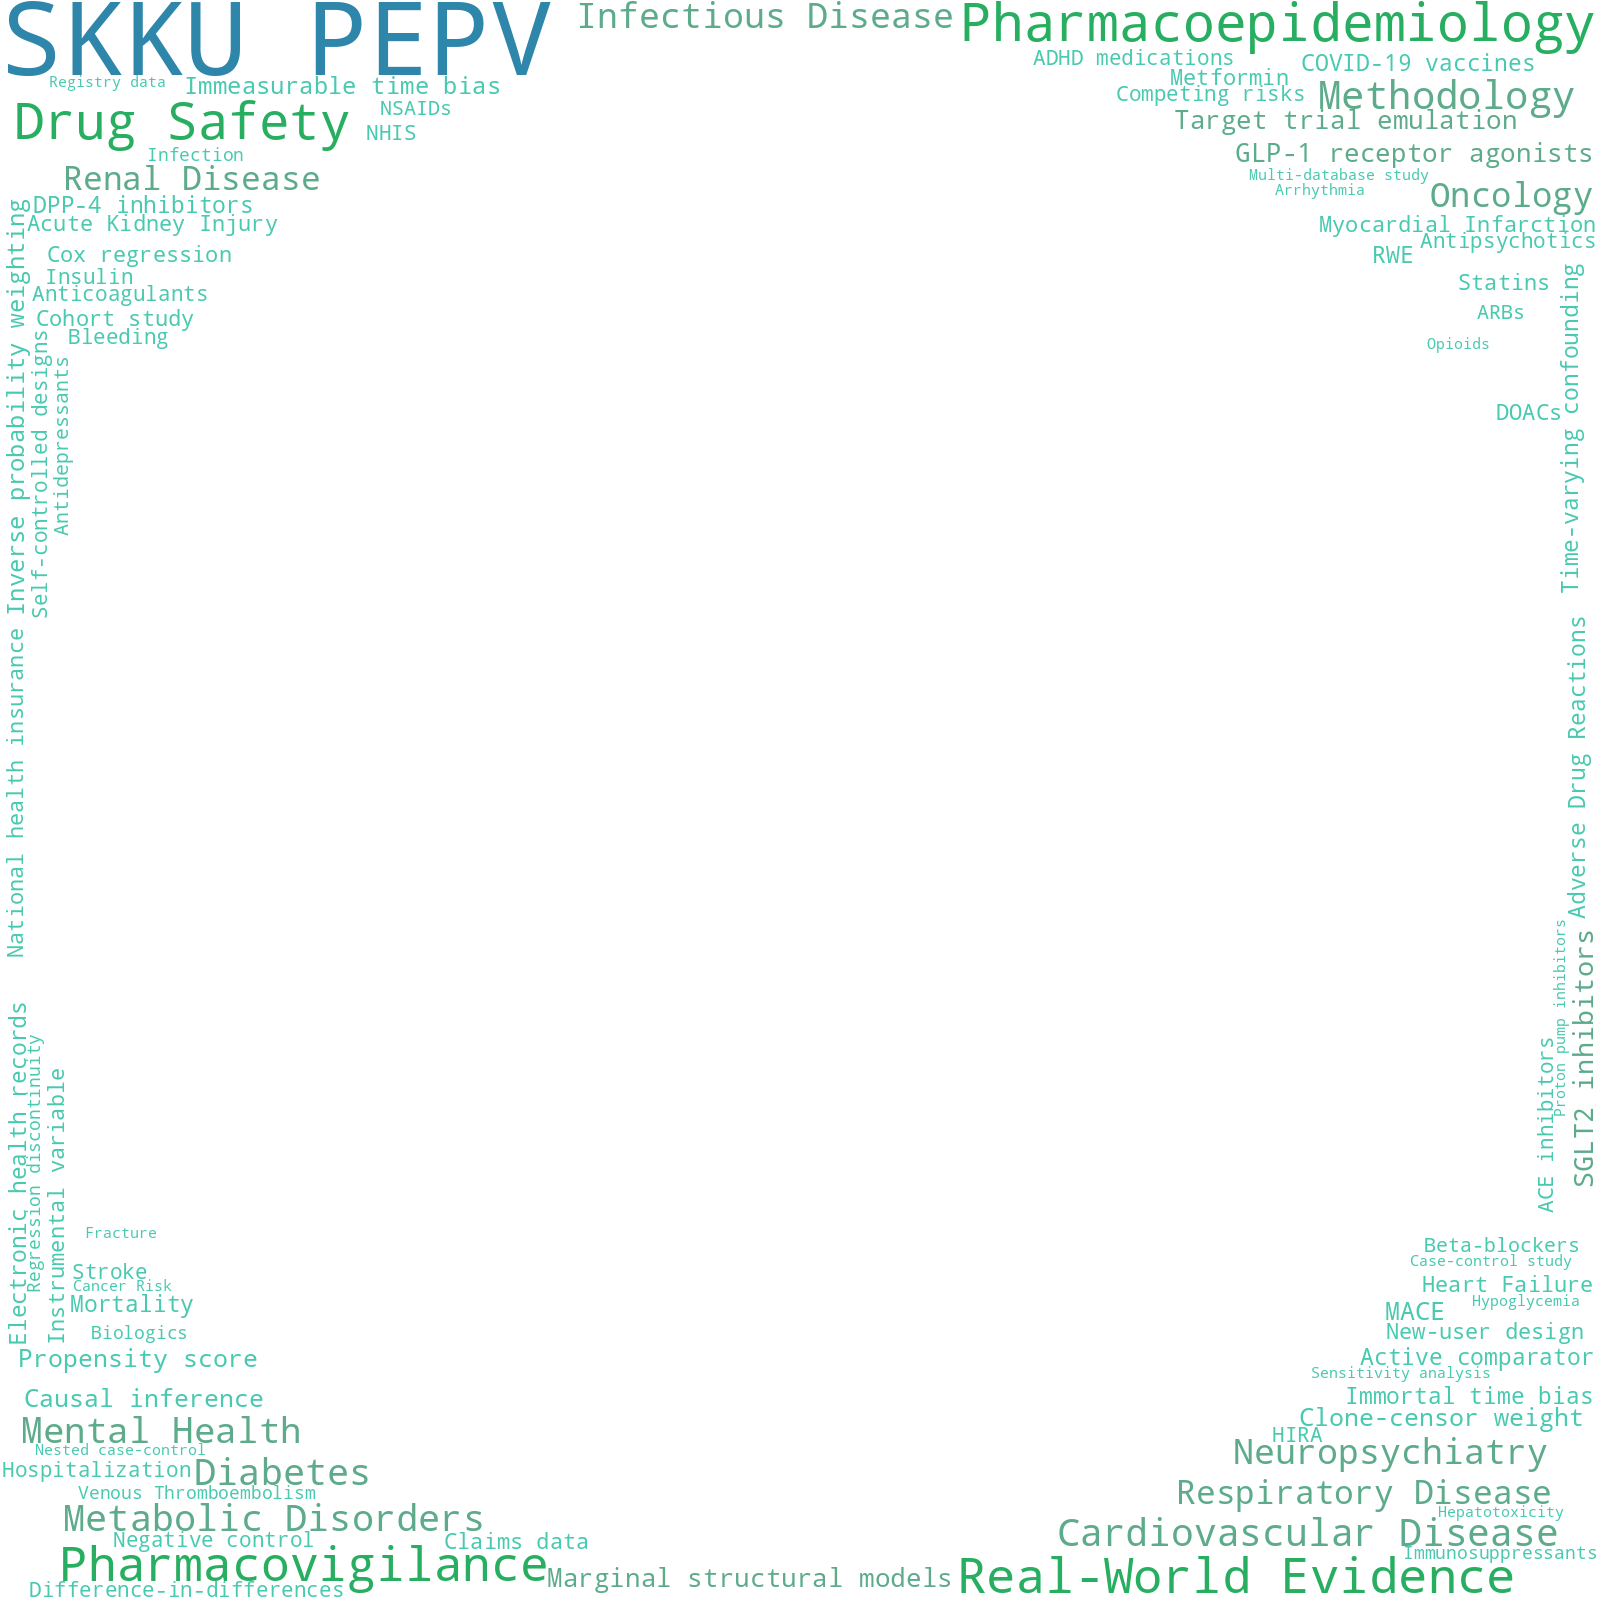
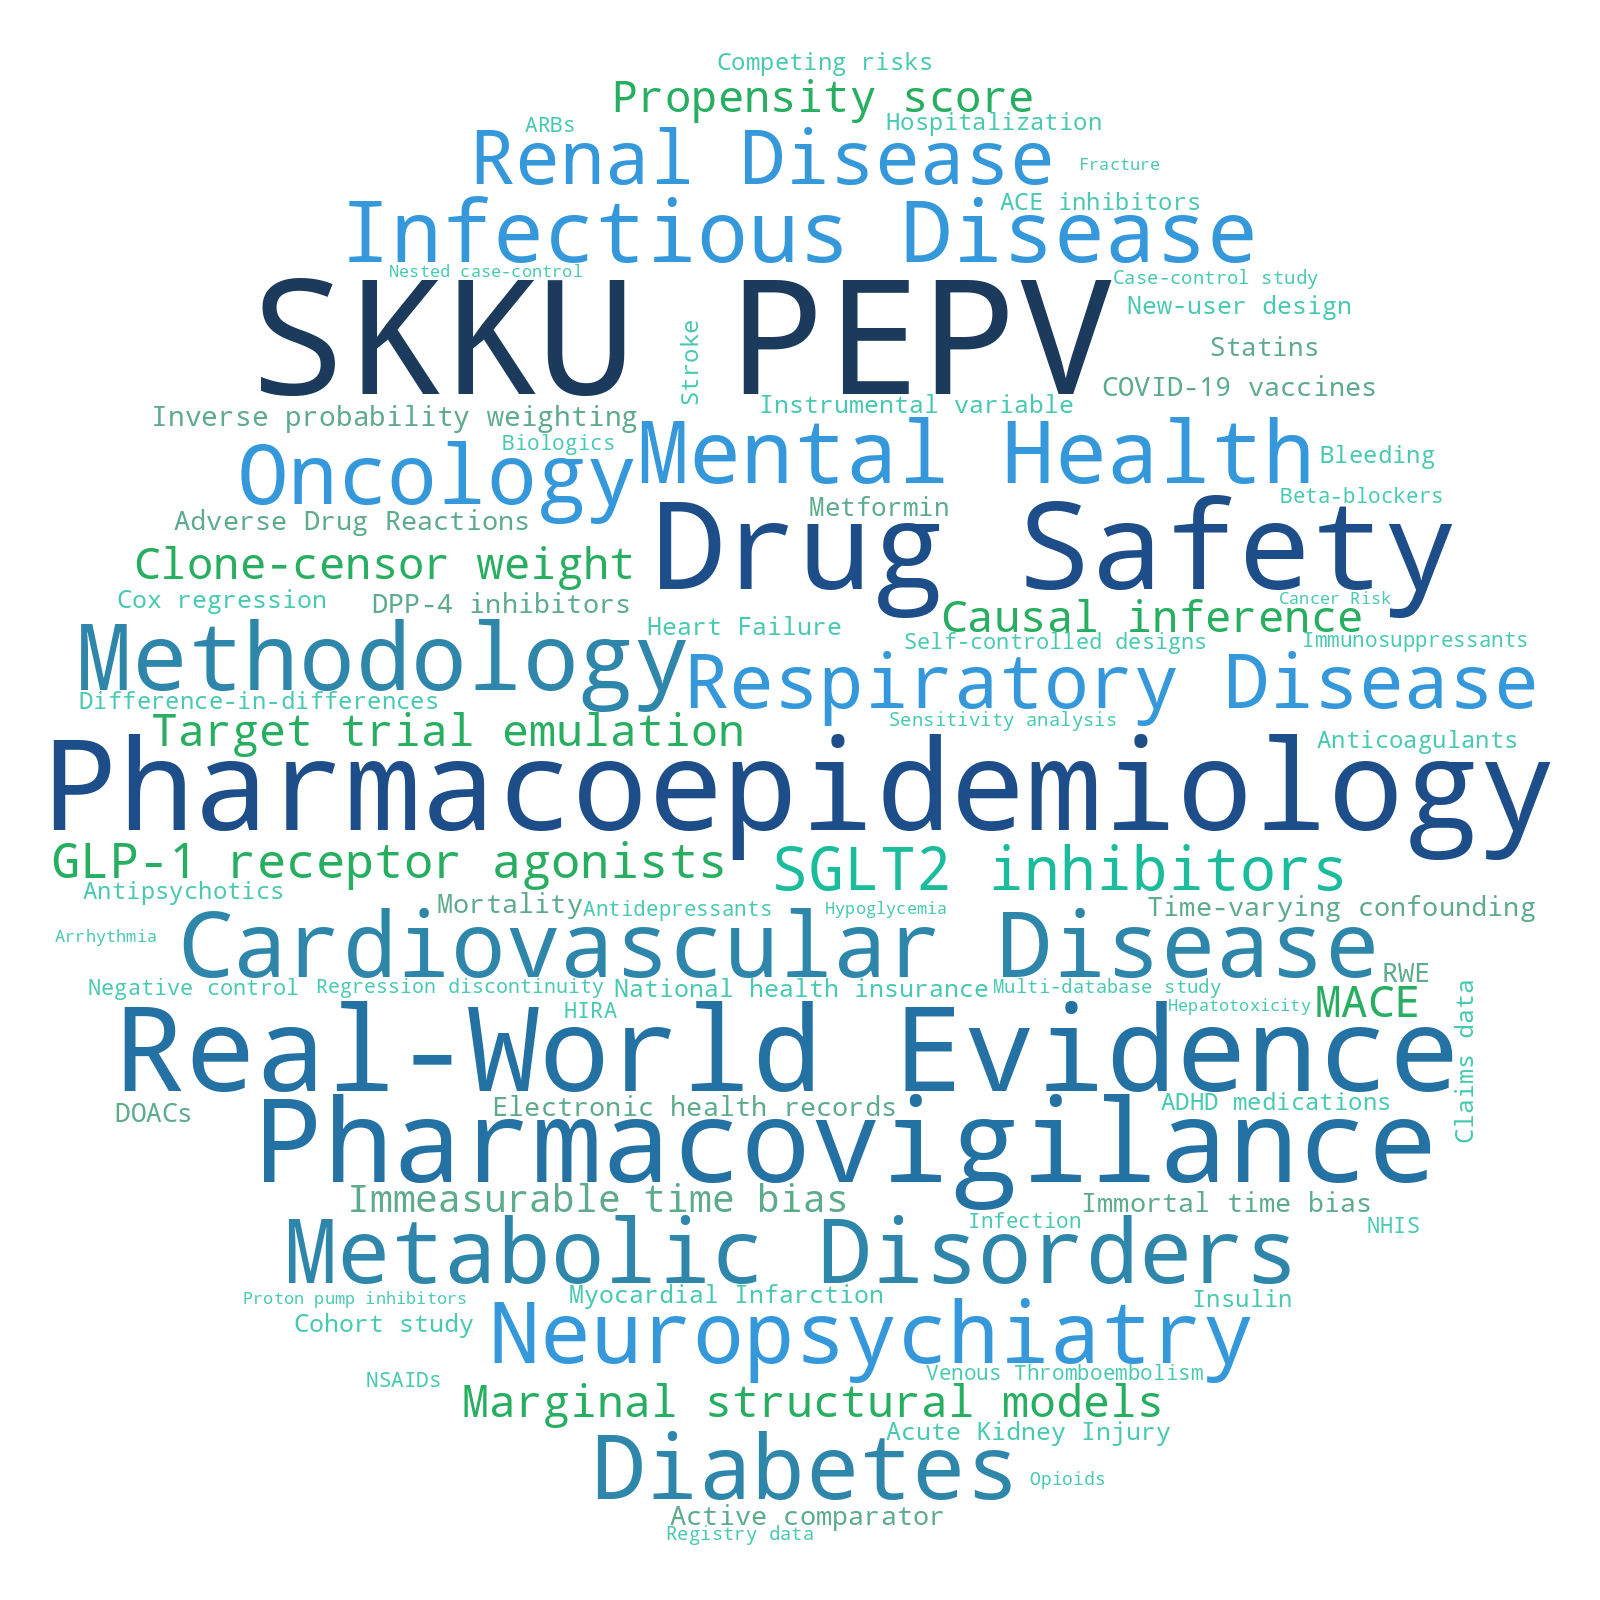
Fix circle mask inversion so words fill inside the circle
WordCloud treats white(255) as masked-out and black(0) as drawable.
The mask was inverted, causing words to appear outside the circle.

https://claude.ai/code/session_01FPDt3uEe6ir5MMsZieMNiU

diff --git a/ring_wordcloud.py b/ring_wordcloud.py
@@ -124,9 +124,9 @@ freq = dict(zip(df["term"], df["weight"]))
 # (B) 원형 마스크
 # -----------------------------
 def make_circle_mask(size=1600, margin=40):
-    img = Image.new("L", (size, size), 0)
+    img = Image.new("L", (size, size), 255)   # 255=흰색=배치 금지
     draw = ImageDraw.Draw(img)
-    draw.ellipse((margin, margin, size - margin, size - margin), fill=255)
+    draw.ellipse((margin, margin, size - margin, size - margin), fill=0)  # 0=검정=배치 허용
     return np.array(img)
 
 mask = make_circle_mask(size=1600, margin=40)
